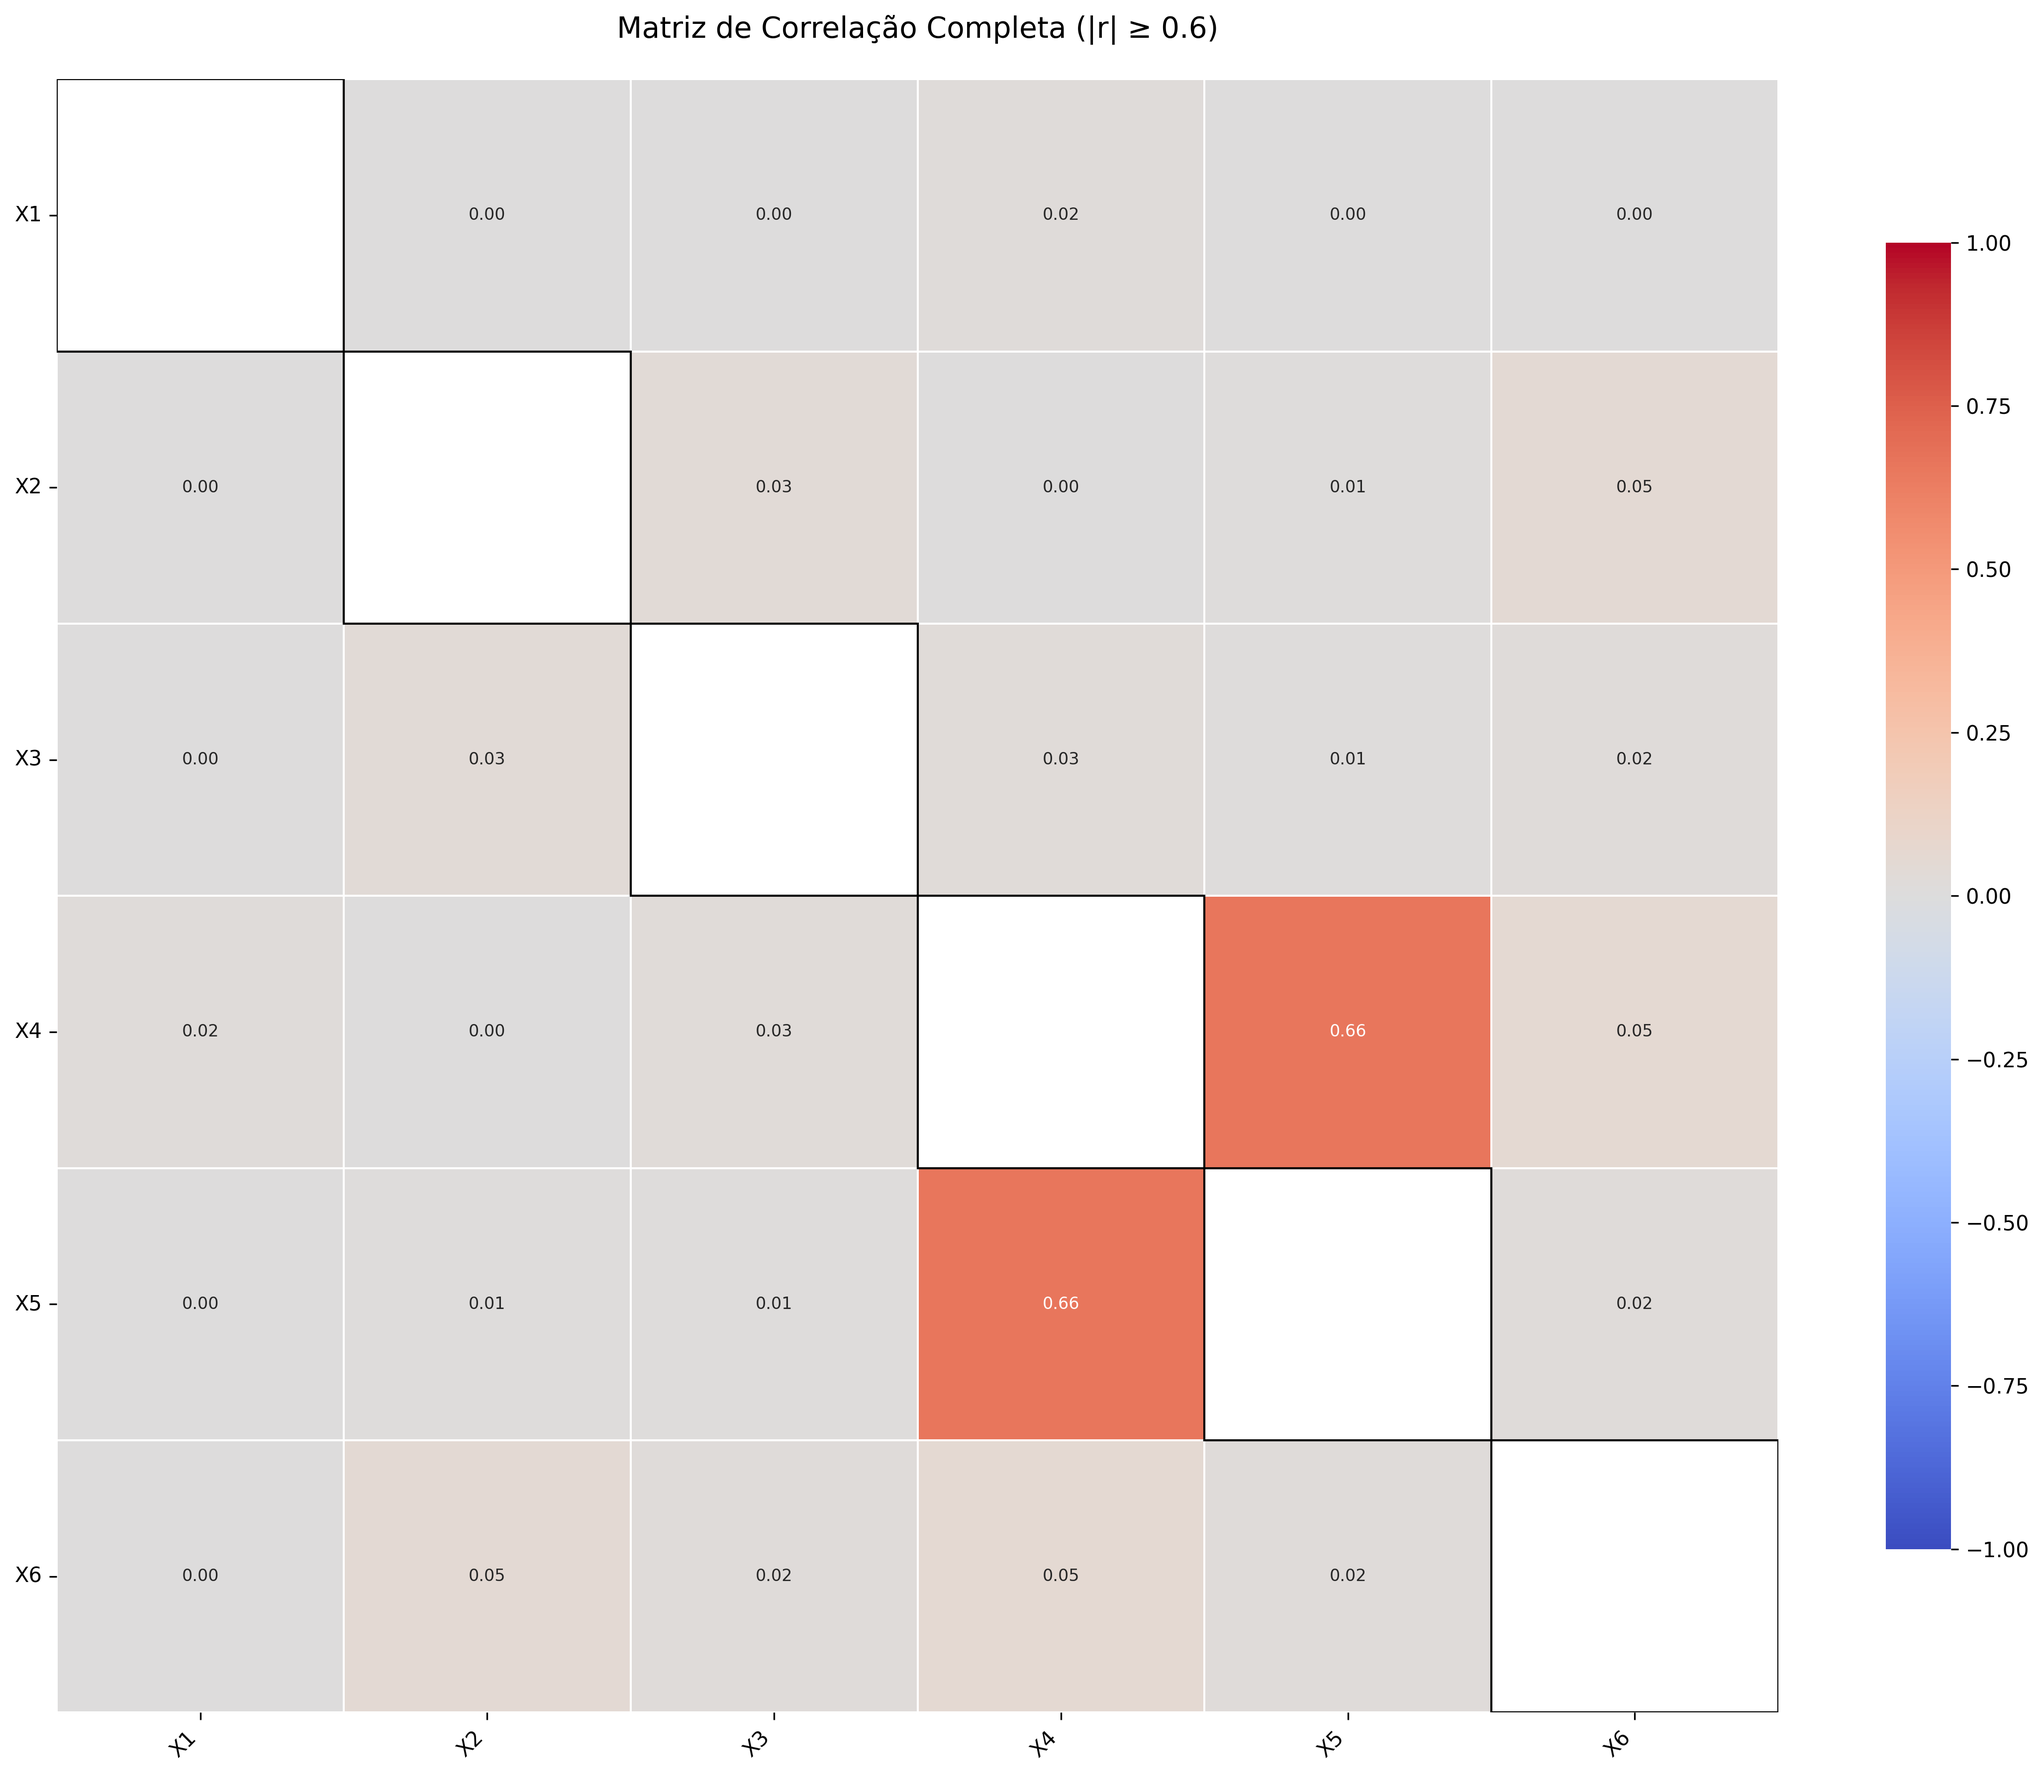
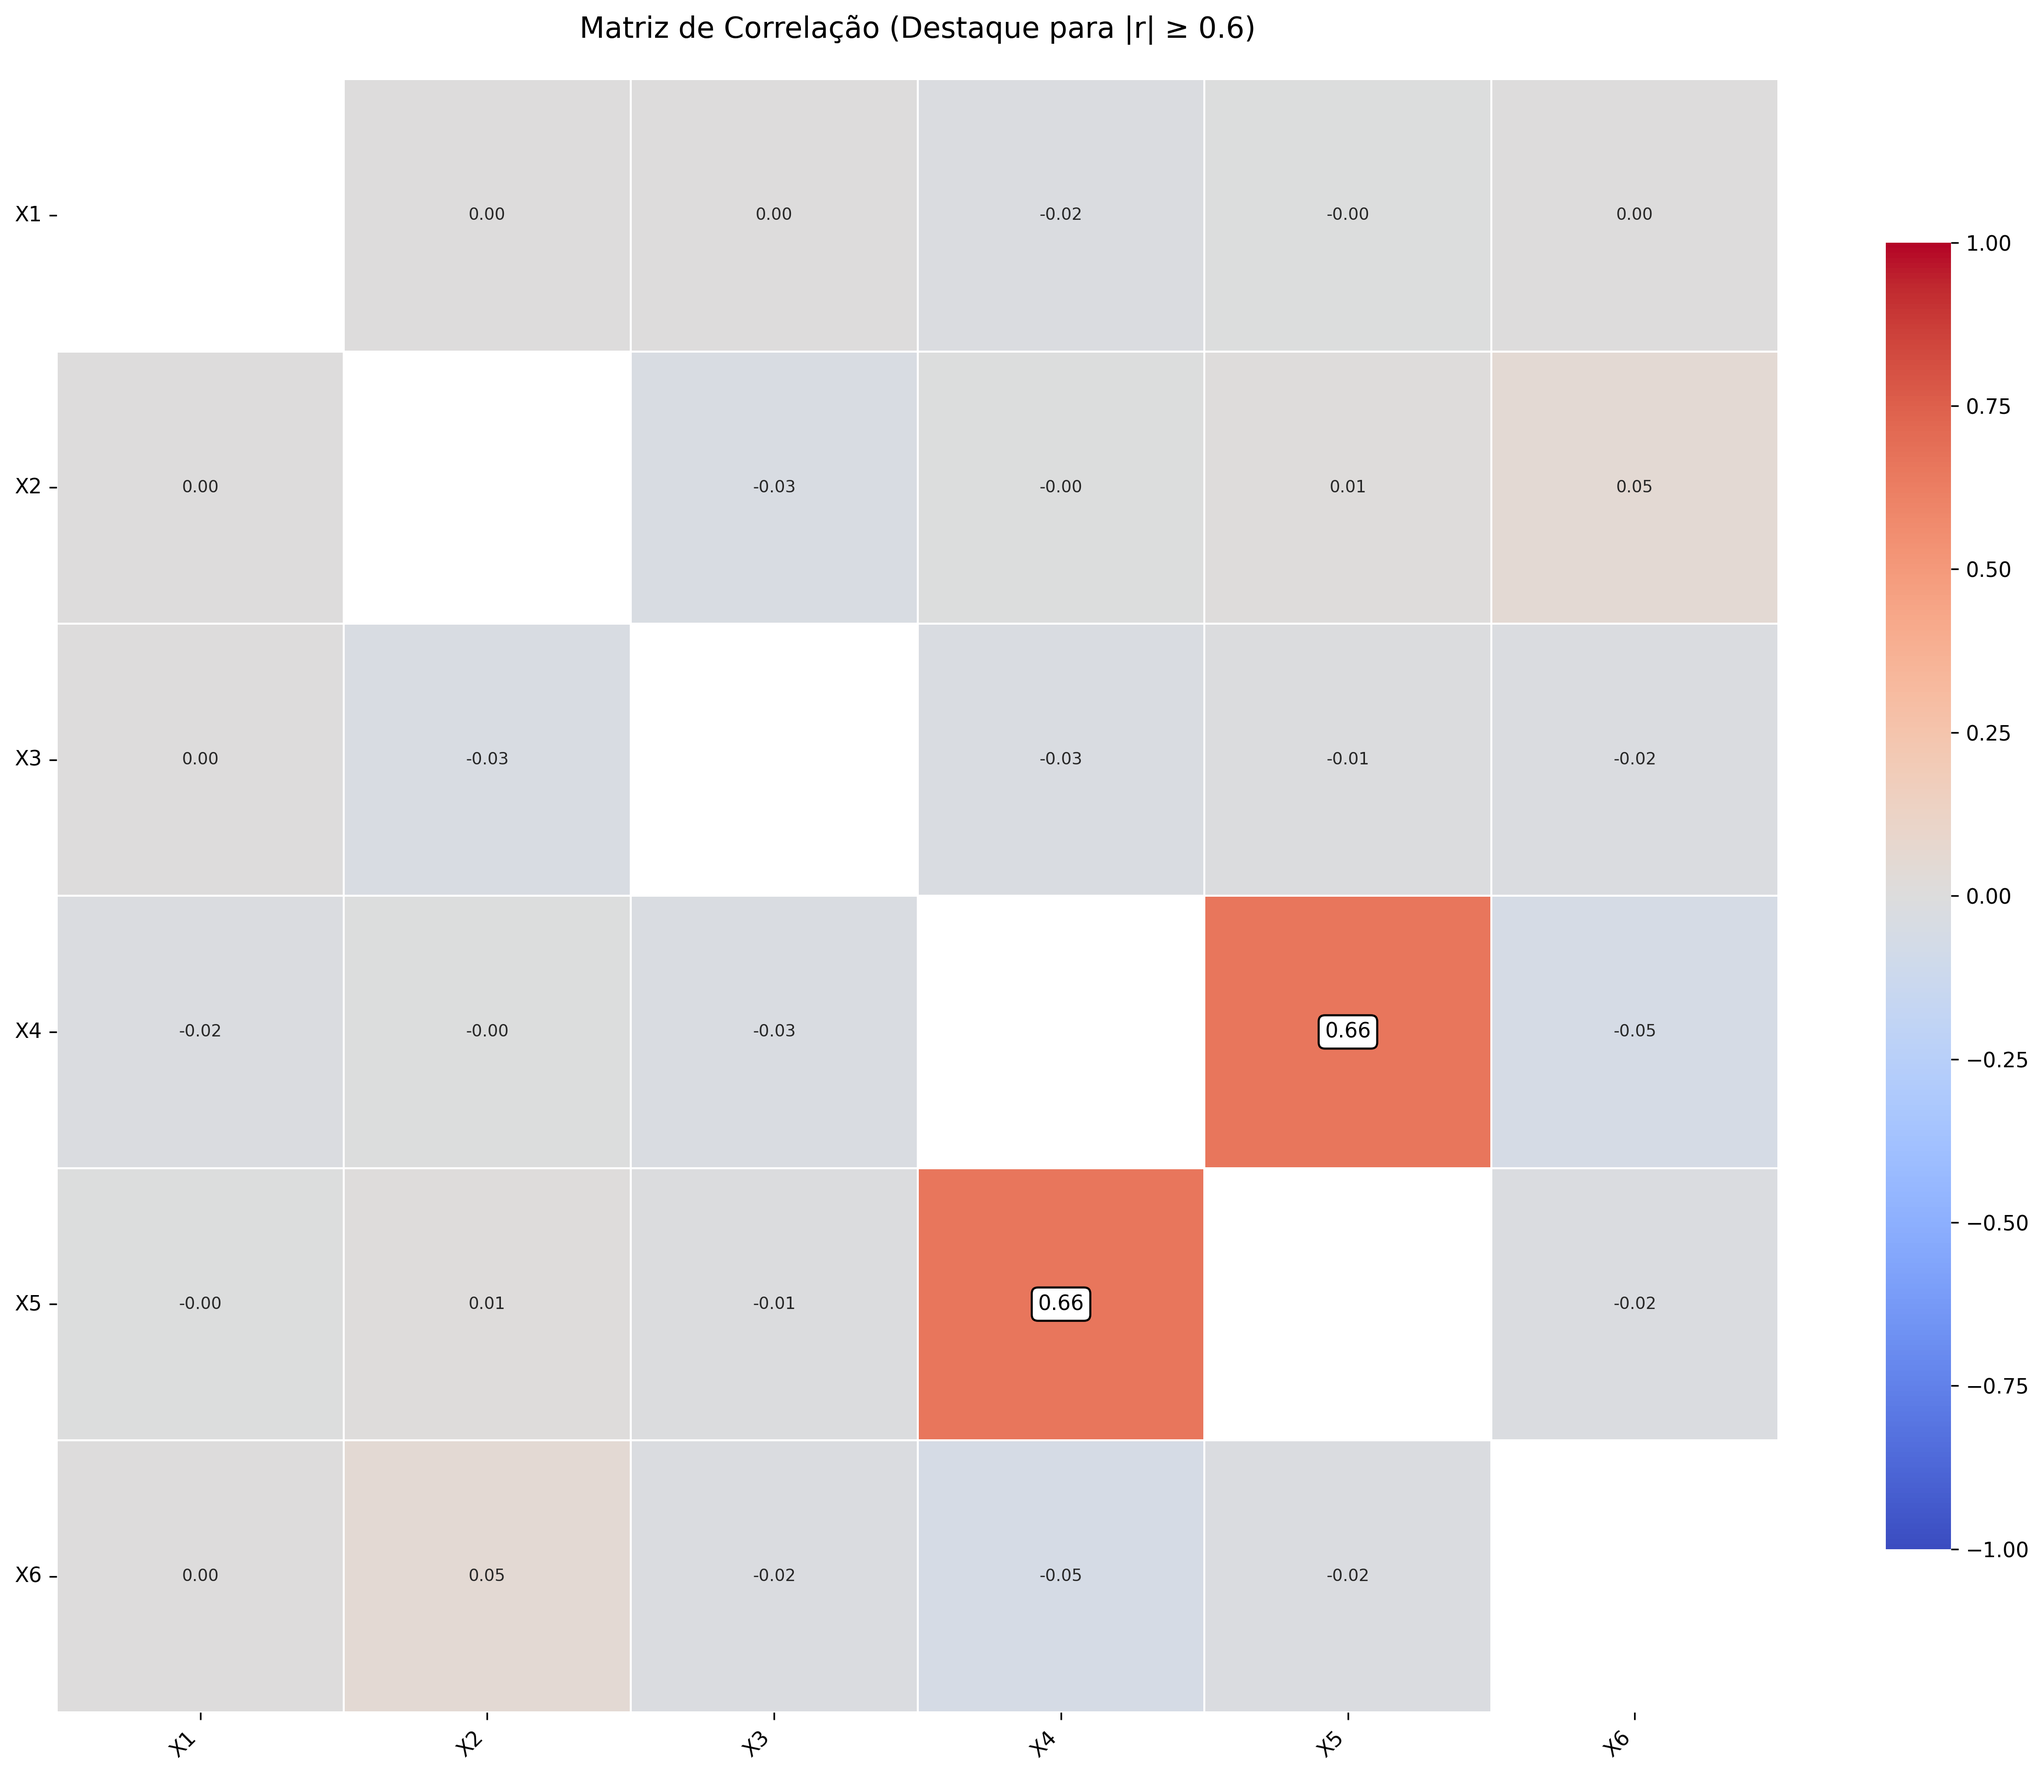
Código atualizado com limite de 0.5 na correlacao

Changed region(s): [[0.2804, 0.0, 0.5919, 0.0311], [0.623, 0.5595, 0.6853, 0.5906], [0.4984, 0.7149, 0.5296, 0.746]]

diff --git a/blind_test_2.py b/blind_test_2.py
@@ -17,6 +17,7 @@ from sklearn.feature_selection import RFECV
 from sklearn.model_selection import StratifiedKFold
 import seaborn as sns
 import matplotlib.pyplot as plt
+from scipy.stats import pearsonr
 import warnings
 warnings.filterwarnings('ignore')
 
@@ -43,21 +44,23 @@ def load_and_preprocess():
         bank = pd.read_csv(INPUT_FILE, encoding='utf-8').dropna()
         save_to_txt(f"Dados carregados: {bank.shape[0]} registros, {bank.shape[1]} colunas", OUTPUT_TXT)
         
-        # Tratamento de categorias raras
-        def group_rare_categories(series, threshold=0.05):
-            counts = series.value_counts(normalize=True)
-            rare_categories = counts[counts < threshold].index
-            return series.replace(rare_categories, 'Other')
-        
-        categorical_cols = bank.select_dtypes(include=['object']).columns
-        for col in categorical_cols:
-            bank[col] = group_rare_categories(bank[col])
-        
-        bank = pd.get_dummies(bank, drop_first=True)
-        save_to_txt(f"\nApós one-hot encoding: {bank.shape[1]} variáveis", OUTPUT_TXT)
+        # Verifica se há colunas categóricas
+        categorical_cols = bank.select_dtypes(include=['object', 'category']).columns
+        if not categorical_cols.empty:
+            save_to_txt(f"\nColunas categóricas detectadas: {list(categorical_cols)}", OUTPUT_TXT)
+            # Tratamento de categorias raras
+            for col in categorical_cols:
+                bank[col] = group_rare_categories(bank[col])
+            bank = pd.get_dummies(bank, drop_first=True)
+            save_to_txt(f"\nApós one-hot encoding: {bank.shape[1]} variáveis", OUTPUT_TXT)
+        else:
+            save_to_txt("\nNenhuma coluna categórica detectada.", OUTPUT_TXT)
         
         # Preparar X e y
         target_col = 'y_yes' if 'y_yes' in bank.columns else 'y'
+        if target_col not in bank.columns:
+            raise ValueError(f"Variável target '{target_col}' não encontrada no DataFrame.")
+        
         y = bank[target_col]
         X = bank.drop(columns=[target_col])
         
@@ -71,39 +74,52 @@ def load_and_preprocess():
         save_to_txt(f"\nERRO: {str(e)}", OUTPUT_TXT)
         exit()
 
+
+
+
 def plot_correlation_matrix(X, threshold):
-    """Gera e salva gráfico da matriz de correlação completa"""
+    """Gera matriz de correlação mostrando todos os pontos, mas destacando os significativos"""
     plt.figure(figsize=(15, 12))
-    corr_matrix = X.corr().abs()
     
-    # Cria máscara para esconder a diagonal principal (opcional)
+    # Calcula matriz de correlação
+    corr_matrix = X.corr()
+    
+    # Cria máscara para a diagonal principal
     mask = np.zeros_like(corr_matrix, dtype=bool)
-    np.fill_diagonal(mask, True)  # Se quiser esconder a diagonal
+    np.fill_diagonal(mask, True)
     
-    sns.heatmap(corr_matrix, 
-                mask=mask,  # Remova esta linha para mostrar tudo
-                annot=True, 
-                fmt=".2f", 
+    # Plotagem da matriz completa
+    sns.heatmap(corr_matrix,
+                mask=mask,
+                annot=True,
+                fmt=".2f",
                 cmap='coolwarm',
-                annot_kws={"size": 8}, 
-                vmin=-1, 
+                center=0,
+                vmin=-1,
                 vmax=1,
                 linewidths=0.5,
-                cbar_kws={"shrink": 0.8})
+                cbar_kws={"shrink": 0.8},
+                annot_kws={"size": 8})
     
-    plt.title(f'Matriz de Correlação Completa (|r| ≥ {threshold})', 
-              pad=20, fontsize=14)
+    # Destacar correlações acima do threshold
+    for i in range(len(corr_matrix.columns)):
+        for j in range(len(corr_matrix.columns)):
+            if i != j and abs(corr_matrix.iloc[i, j]) >= threshold:
+                plt.text(j + 0.5, i + 0.5, 
+                        f"{corr_matrix.iloc[i, j]:.2f}",
+                        ha="center", va="center",
+                        color="black", fontsize=10,
+                        bbox=dict(facecolor='white', edgecolor='black', boxstyle='round,pad=0.3'))
+    
+    plt.title(f'Matriz de Correlação (Destaque para |r| ≥ {threshold})', pad=20, fontsize=14)
     plt.xticks(rotation=45, ha='right')
     plt.yticks(rotation=0)
-    
-    # Adiciona linhas para destacar a diagonal principal
-    for i in range(len(corr_matrix)):
-        plt.gca().add_patch(plt.Rectangle((i, i), 1, 1, fill=False, edgecolor='black', lw=1))
-    
     plt.tight_layout()
+    
     plt.savefig(CORR_PLOT, dpi=300, bbox_inches='tight')
     plt.close()
-    save_to_txt(f"\nMatriz de correlação completa salva em: {CORR_PLOT}", OUTPUT_TXT)
+    
+    save_to_txt(f"\nMatriz de correlação salva em: {CORR_PLOT}", OUTPUT_TXT)
     
 def remove_highly_correlated(X, threshold):
     """Remove variáveis com correlação acima do threshold"""
